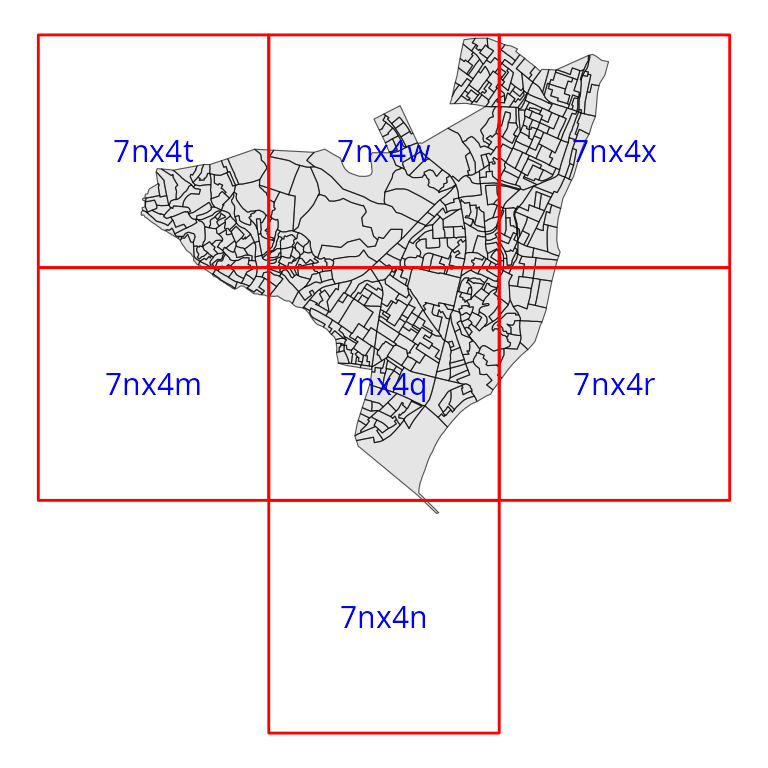
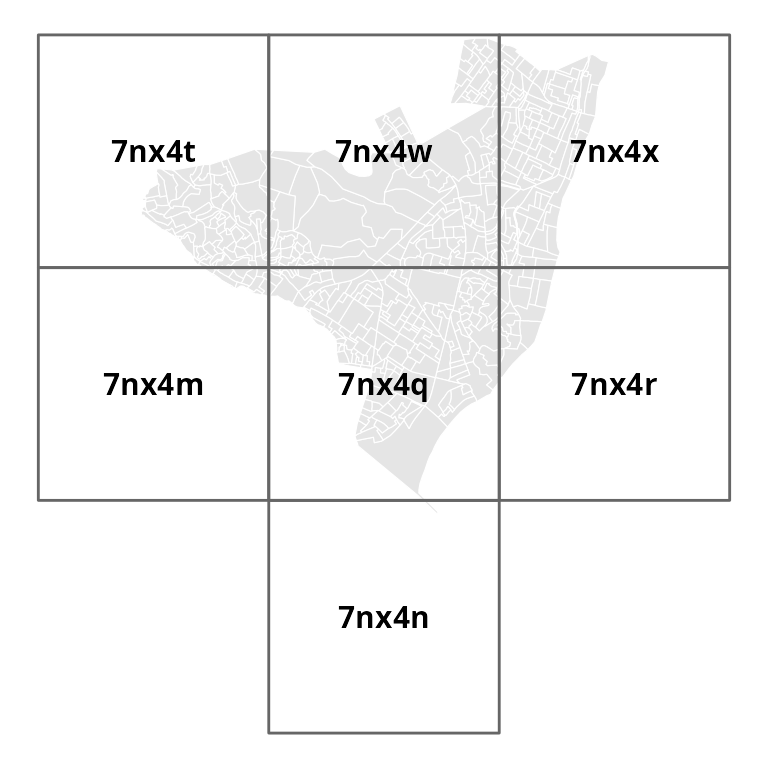
tweak color scheme

diff --git a/docs/articles/geohashTools.html b/docs/articles/geohashTools.html
@@ -326,9 +326,13 @@ cover the municipality cleanly.</p>
 top.</p>
 <div class="sourceCode" id="cb13"><pre class="downlit sourceCode r">
 <code class="sourceCode R"><span><span class="fu"><a href="https://ggplot2.tidyverse.org/reference/ggplot.html" class="external-link">ggplot</a></span><span class="op">(</span><span class="op">)</span> <span class="op">+</span></span>
-<span>  <span class="fu"><a href="https://ggplot2.tidyverse.org/reference/ggsf.html" class="external-link">geom_sf</a></span><span class="op">(</span>data <span class="op">=</span> <span class="va">olinda_4326</span><span class="op">)</span> <span class="op">+</span></span>
-<span>  <span class="fu"><a href="https://ggplot2.tidyverse.org/reference/ggsf.html" class="external-link">geom_sf</a></span><span class="op">(</span>data <span class="op">=</span> <span class="va">olinda_gh</span>, fill <span class="op">=</span> <span class="cn">NA</span>, colour <span class="op">=</span> <span class="st">'red'</span>, linewidth <span class="op">=</span> <span class="fl">0.5</span><span class="op">)</span> <span class="op">+</span></span>
-<span>  <span class="fu"><a href="https://ggplot2.tidyverse.org/reference/ggsf.html" class="external-link">geom_sf_text</a></span><span class="op">(</span>data <span class="op">=</span> <span class="va">olinda_gh</span>, <span class="fu"><a href="https://ggplot2.tidyverse.org/reference/aes.html" class="external-link">aes</a></span><span class="op">(</span>label <span class="op">=</span> <span class="fu"><a href="https://rdrr.io/r/base/colnames.html" class="external-link">rownames</a></span><span class="op">(</span><span class="va">olinda_gh</span><span class="op">)</span><span class="op">)</span>, colour <span class="op">=</span> <span class="st">'blue'</span>, size <span class="op">=</span> <span class="fl">4.0</span><span class="op">)</span> <span class="op">+</span></span>
+<span>  <span class="fu"><a href="https://ggplot2.tidyverse.org/reference/ggsf.html" class="external-link">geom_sf</a></span><span class="op">(</span>data <span class="op">=</span> <span class="va">olinda_4326</span>, fill <span class="op">=</span> <span class="st">'grey90'</span>, colour <span class="op">=</span> <span class="st">'white'</span><span class="op">)</span> <span class="op">+</span></span>
+<span>  <span class="fu"><a href="https://ggplot2.tidyverse.org/reference/ggsf.html" class="external-link">geom_sf</a></span><span class="op">(</span>data <span class="op">=</span> <span class="va">olinda_gh</span>, fill <span class="op">=</span> <span class="cn">NA</span>, colour <span class="op">=</span> <span class="st">'grey40'</span>, linewidth <span class="op">=</span> <span class="fl">0.5</span><span class="op">)</span> <span class="op">+</span></span>
+<span>  <span class="fu"><a href="https://ggplot2.tidyverse.org/reference/ggsf.html" class="external-link">geom_sf_text</a></span><span class="op">(</span></span>
+<span>    data <span class="op">=</span> <span class="va">olinda_gh</span>,</span>
+<span>    <span class="fu"><a href="https://ggplot2.tidyverse.org/reference/aes.html" class="external-link">aes</a></span><span class="op">(</span>label <span class="op">=</span> <span class="fu"><a href="https://rdrr.io/r/base/colnames.html" class="external-link">rownames</a></span><span class="op">(</span><span class="va">olinda_gh</span><span class="op">)</span><span class="op">)</span>,</span>
+<span>    colour <span class="op">=</span> <span class="st">'black'</span>, size <span class="op">=</span> <span class="fl">4.0</span>, fontface <span class="op">=</span> <span class="st">'bold'</span></span>
+<span>  <span class="op">)</span> <span class="op">+</span></span>
 <span>  <span class="fu"><a href="https://ggplot2.tidyverse.org/reference/ggtheme.html" class="external-link">theme_void</a></span><span class="op">(</span><span class="op">)</span></span></code></pre></div>
 <p><img src="geohashTools_files/figure-html/olinda_covering_plot-1.png" class="r-plt" alt="" width="\textwidth"></p>
 <p>Alternatively, using <code>gh_covering</code> with the parameter
@@ -338,9 +342,13 @@ objects.</p>
 <code class="sourceCode R"><span><span class="va">olinda_minimal_gh</span> <span class="op">&lt;-</span> <span class="fu"><a href="../reference/gis_tools.html">gh_covering</a></span><span class="op">(</span><span class="va">olinda_4326</span>, precision <span class="op">=</span> <span class="fl">5L</span>, minimal <span class="op">=</span> <span class="cn">TRUE</span><span class="op">)</span></span>
 <span></span>
 <span><span class="fu"><a href="https://ggplot2.tidyverse.org/reference/ggplot.html" class="external-link">ggplot</a></span><span class="op">(</span><span class="op">)</span> <span class="op">+</span></span>
-<span>  <span class="fu"><a href="https://ggplot2.tidyverse.org/reference/ggsf.html" class="external-link">geom_sf</a></span><span class="op">(</span>data <span class="op">=</span> <span class="va">olinda_4326</span><span class="op">)</span> <span class="op">+</span></span>
-<span>  <span class="fu"><a href="https://ggplot2.tidyverse.org/reference/ggsf.html" class="external-link">geom_sf</a></span><span class="op">(</span>data <span class="op">=</span> <span class="va">olinda_minimal_gh</span>, fill <span class="op">=</span> <span class="cn">NA</span>, colour <span class="op">=</span> <span class="st">'red'</span>, linewidth <span class="op">=</span> <span class="fl">0.5</span><span class="op">)</span> <span class="op">+</span></span>
-<span>  <span class="fu"><a href="https://ggplot2.tidyverse.org/reference/ggsf.html" class="external-link">geom_sf_text</a></span><span class="op">(</span>data <span class="op">=</span> <span class="va">olinda_minimal_gh</span>, <span class="fu"><a href="https://ggplot2.tidyverse.org/reference/aes.html" class="external-link">aes</a></span><span class="op">(</span>label <span class="op">=</span> <span class="fu"><a href="https://rdrr.io/r/base/colnames.html" class="external-link">rownames</a></span><span class="op">(</span><span class="va">olinda_minimal_gh</span><span class="op">)</span><span class="op">)</span>, colour <span class="op">=</span> <span class="st">'blue'</span>, size <span class="op">=</span> <span class="fl">4.0</span><span class="op">)</span> <span class="op">+</span></span>
+<span>  <span class="fu"><a href="https://ggplot2.tidyverse.org/reference/ggsf.html" class="external-link">geom_sf</a></span><span class="op">(</span>data <span class="op">=</span> <span class="va">olinda_4326</span>, fill <span class="op">=</span> <span class="st">'grey90'</span>, colour <span class="op">=</span> <span class="st">'white'</span><span class="op">)</span> <span class="op">+</span></span>
+<span>  <span class="fu"><a href="https://ggplot2.tidyverse.org/reference/ggsf.html" class="external-link">geom_sf</a></span><span class="op">(</span>data <span class="op">=</span> <span class="va">olinda_minimal_gh</span>, fill <span class="op">=</span> <span class="cn">NA</span>, colour <span class="op">=</span> <span class="st">'grey40'</span>, linewidth <span class="op">=</span> <span class="fl">0.5</span><span class="op">)</span> <span class="op">+</span></span>
+<span>  <span class="fu"><a href="https://ggplot2.tidyverse.org/reference/ggsf.html" class="external-link">geom_sf_text</a></span><span class="op">(</span></span>
+<span>    data <span class="op">=</span> <span class="va">olinda_minimal_gh</span>,</span>
+<span>    <span class="fu"><a href="https://ggplot2.tidyverse.org/reference/aes.html" class="external-link">aes</a></span><span class="op">(</span>label <span class="op">=</span> <span class="fu"><a href="https://rdrr.io/r/base/colnames.html" class="external-link">rownames</a></span><span class="op">(</span><span class="va">olinda_minimal_gh</span><span class="op">)</span><span class="op">)</span>,</span>
+<span>    colour <span class="op">=</span> <span class="st">'black'</span>, size <span class="op">=</span> <span class="fl">4.0</span>, fontface <span class="op">=</span> <span class="st">'bold'</span></span>
+<span>  <span class="op">)</span> <span class="op">+</span></span>
 <span>  <span class="fu"><a href="https://ggplot2.tidyverse.org/reference/ggtheme.html" class="external-link">theme_void</a></span><span class="op">(</span><span class="op">)</span></span></code></pre></div>
 <p><img src="geohashTools_files/figure-html/olinda_minimal-1.png" class="r-plt" alt="" width="\textwidth"></p>
 </div>